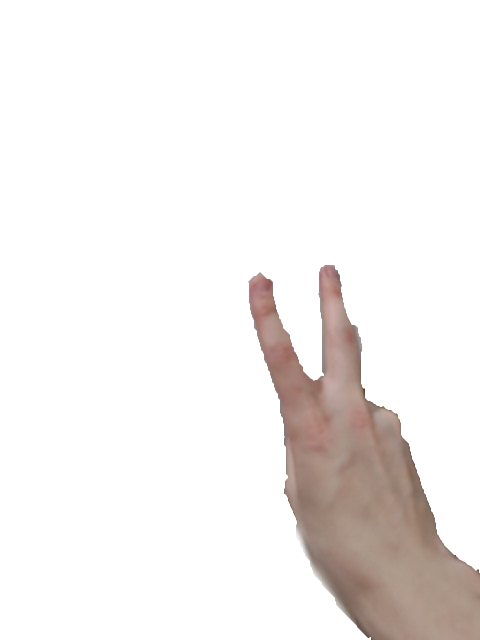
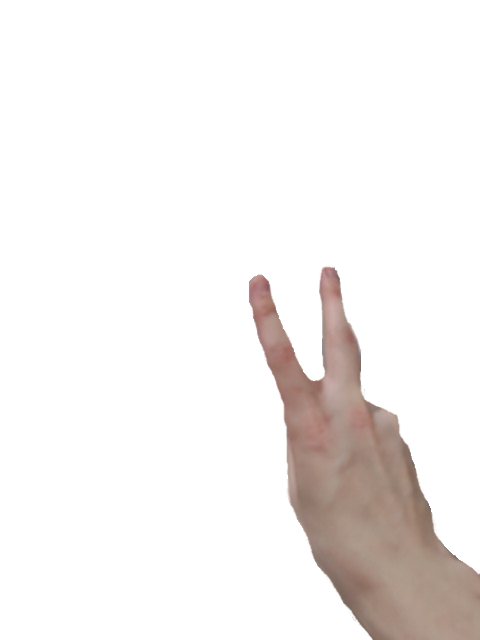
Added weapon animations

diff --git a/client/src/components/FirstPersonWeapon.jsx b/client/src/components/FirstPersonWeapon.jsx
@@ -1,10 +1,12 @@
 import { useEffect, useRef, useState } from 'react'
-import idleImage from './assets/fists/fists.png'
-import leftPunchImage from './assets/fists/left-punch.png'
-import rightPunchImage from './assets/fists/right-punch.png'
+import avatars from './assets/avatars';
 
 export default function FirstPersonWeapon({ updatePlayer, localState, gameState }) {
-  const [image, setImage] = useState(idleImage);
+  const avatar = avatars[5];
+  const avatarRef = useRef(avatar);
+  avatarRef.current = avatar;
+
+  const [image, setImage] = useState(avatarRef.current.weapon.idle);
   const [punch, setPunch] = useState(false);
 
   const punchRef = useRef(punch);
@@ -15,10 +17,10 @@ export default function FirstPersonWeapon({ updatePlayer, localState, gameState 
 
     const handleKeyDown = (event) => {
       if (event.code === 'Space' && !punchRef.current) {
-        setImage(Math.random() < 0.5 ? leftPunchImage : rightPunchImage);
+        setImage(Math.random() < 0.5 ? avatarRef.current.weapon.punch[0] : avatarRef.current.weapon.punch[1]);
         setPunch(true);
         timer = setTimeout(() => {
-          setImage(idleImage);
+          setImage(avatarRef.current.weapon.idle);
           setPunch(false);
         }, 150);
       }
@@ -62,9 +64,9 @@ export default function FirstPersonWeapon({ updatePlayer, localState, gameState 
     <>
       {/* Load images beforehand so they are ready for use (Otherwise they may not load in production) */}
       <div style={{ position: 'absolute', width: 0, height: 0, top: 0, left: 0, overflow: 'hidden'}}>
-        <img src={leftPunchImage} />
-        <img src={rightPunchImage} />
-        <img src={idleImage} />
+        <img src={avatarRef.current.weapon.punch[0]} />
+        <img src={avatarRef.current.weapon.punch[0]} />
+        <img src={avatarRef.current.weapon.idle} />
       </div>
       <img
         src={image}

diff --git a/client/src/components/assets/avatars/businessman/index.js b/client/src/components/assets/avatars/businessman/index.js
@@ -15,6 +15,9 @@ import leftStep2 from './left-step-2.png';
 import rightStep1 from './right-step-1.png';
 import rightStep2 from './right-step-2.png';
 import hit from './hit.png';
+import weaponIdle from './weapon-idle.png';
+import weapon1 from './weapon-1.png';
+import weapon2 from './weapon-2.png';
 
 export default {
   front: {
@@ -37,4 +40,8 @@ export default {
     idle: behindIdle,
     step: [behindStep1, behindStep2],
   },
+  weapon: {
+    idle: weaponIdle,
+    punch: [weapon1, weapon2],
+  }
 };

diff --git a/client/src/components/assets/avatars/cowboy/index.js b/client/src/components/assets/avatars/cowboy/index.js
@@ -15,6 +15,9 @@ import leftStep2 from './left-step-2.png';
 import rightStep1 from './right-step-1.png';
 import rightStep2 from './right-step-2.png';
 import hit from './hit.png';
+import weaponIdle from './weapon-idle.png';
+import weapon1 from './weapon-1.png';
+import weapon2 from './weapon-2.png';
 
 export default {
   front: {
@@ -37,4 +40,8 @@ export default {
     idle: behindIdle,
     step: [behindStep1, behindStep2],
   },
+  weapon: {
+    idle: weaponIdle,
+    punch: [weapon1, weapon2],
+  }
 };

diff --git a/client/src/components/assets/avatars/hippy/index.js b/client/src/components/assets/avatars/hippy/index.js
@@ -15,6 +15,9 @@ import leftStep2 from './left-step-2.png';
 import rightStep1 from './right-step-1.png';
 import rightStep2 from './right-step-2.png';
 import hit from './hit.png';
+import weaponIdle from './weapon-idle.png';
+import weapon1 from './weapon-1.png';
+import weapon2 from './weapon-2.png';
 
 export default {
   front: {
@@ -37,4 +40,8 @@ export default {
     idle: behindIdle,
     step: [behindStep1, behindStep2],
   },
+  weapon: {
+    idle: weaponIdle,
+    punch: [weapon1, weapon2],
+  }
 };

diff --git a/client/src/components/assets/avatars/morpheus/index.js b/client/src/components/assets/avatars/morpheus/index.js
@@ -15,6 +15,9 @@ import leftStep2 from './left-step-2.png';
 import rightStep1 from './right-step-1.png';
 import rightStep2 from './right-step-2.png';
 import hit from './hit.png';
+import weaponIdle from './weapon-idle.png';
+import weapon1 from './weapon-1.png';
+import weapon2 from './weapon-2.png';
 
 export default {
   front: {
@@ -37,4 +40,8 @@ export default {
     idle: behindIdle,
     step: [behindStep1, behindStep2],
   },
+  weapon: {
+    idle: weaponIdle,
+    punch: [weapon1, weapon2],
+  }
 };

diff --git a/client/src/components/assets/avatars/russian/index.js b/client/src/components/assets/avatars/russian/index.js
@@ -15,6 +15,9 @@ import leftStep2 from './left-step-2.png';
 import rightStep1 from './right-step-1.png';
 import rightStep2 from './right-step-2.png';
 import hit from './hit.png';
+import weaponIdle from './weapon-idle.png';
+import weapon1 from './weapon-1.png';
+import weapon2 from './weapon-2.png';
 
 export default {
   front: {
@@ -37,4 +40,8 @@ export default {
     idle: behindIdle,
     step: [behindStep1, behindStep2],
   },
+  weapon: {
+    idle: weaponIdle,
+    punch: [weapon1, weapon2],
+  }
 };

diff --git a/client/src/components/assets/avatars/wizard/index.js b/client/src/components/assets/avatars/wizard/index.js
@@ -15,6 +15,9 @@ import leftStep2 from './left-step-2.png';
 import rightStep1 from './right-step-1.png';
 import rightStep2 from './right-step-2.png';
 import hit from './hit.png';
+import weaponIdle from './weapon-idle.png';
+import weapon1 from './weapon-1.png';
+import weapon2 from './weapon-2.png';
 
 export default {
   front: {
@@ -37,4 +40,8 @@ export default {
     idle: behindIdle,
     step: [behindStep1, behindStep2],
   },
+  weapon: {
+    idle: weaponIdle,
+    punch: [weapon1, weapon2],
+  }
 };
